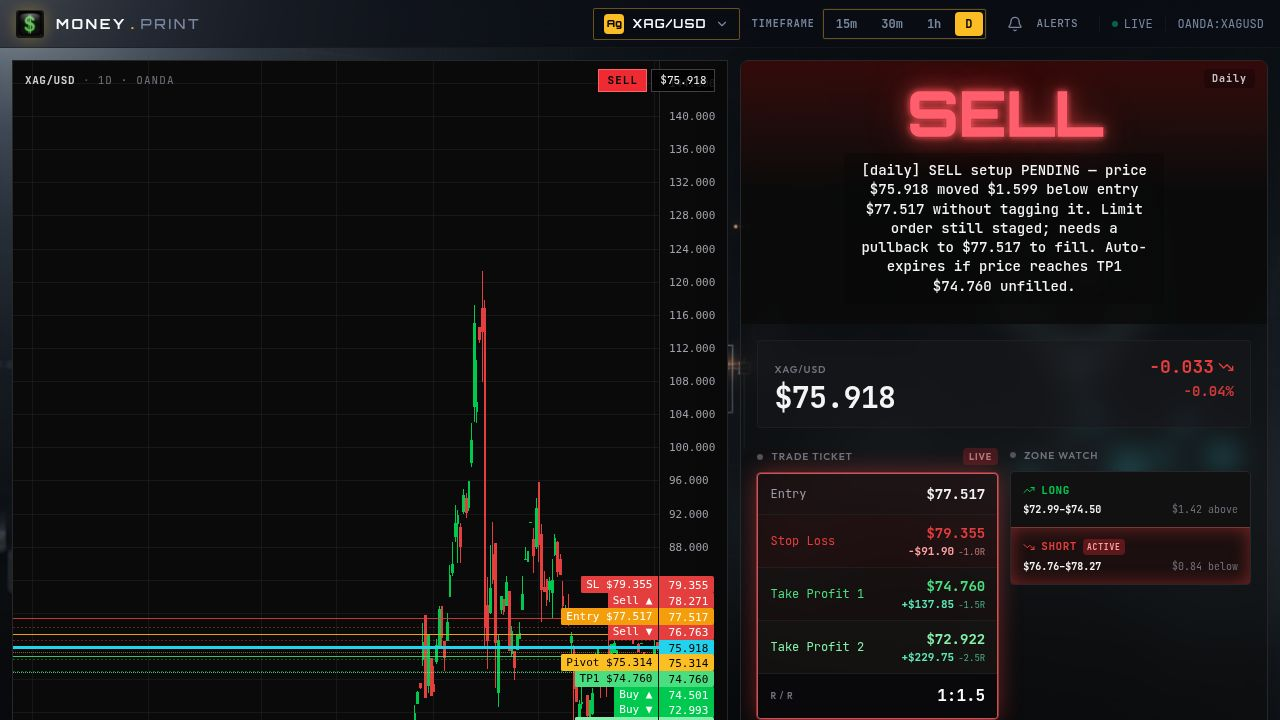
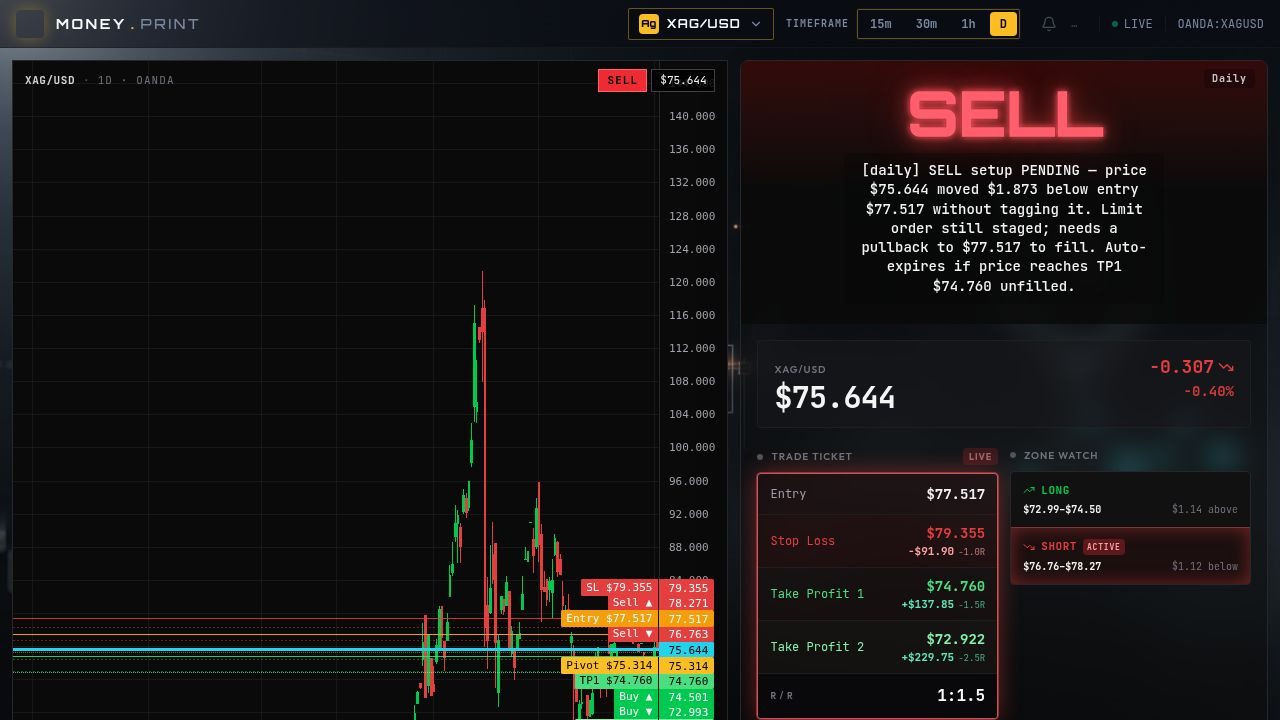
Improve chart accuracy by filtering out synthetic data points
Refine logic in artifacts/api-server/src/routes/levels.ts to correctly identify and remove synthetic, off-grid candles while preserving legitimate market-close data.

Replit-Commit-Author: Agent
Replit-Commit-Session-Id: 2d1c195f-a2e4-4244-aeab-3efe506ec239
Replit-Commit-Checkpoint-Type: full_checkpoint
Replit-Commit-Event-Id: 65a1be9f-b22a-4a94-9fc1-fca8725d3ce3
Replit-Commit-Screenshot-Url: https://storage.googleapis.com/screenshot-production-us-central1/42255058-50c7-418c-ae04-8a023d4562d7/2d1c195f-a2e4-4244-aeab-3efe506ec239/tDWAQ4R
Replit-Helium-Checkpoint-Created: true

diff --git a/artifacts/api-server/src/routes/levels.ts b/artifacts/api-server/src/routes/levels.ts
@@ -81,13 +81,26 @@ router.get("/price-history", async (req: Request, res: Response) => {
 
     const round = makeRounder(SYMBOLS[symbol].decimals);
 
-    // Drop any zero-range candle Yahoo injects for the current partial
-    // period (its O=H=L=C, it's a live-tick stub, not a real bar). We
-    // apply the live price directly to the last proper candle instead.
+    // Drop any live-tick stub Yahoo injects for the current partial period.
+    // Yahoo injects a zero-range bar (O=H=L=C) at the EXACT current clock
+    // time (e.g. 02:28:38) rather than a candle-grid boundary (e.g. 02:00:00).
+    // Genuine market-close candles can also be zero-range but always land on
+    // a proper grid boundary, so we only strip stubs whose timestamp has
+    // non-zero seconds (intraday) or whose date string contains a "T" with
+    // a non-zero seconds component.
     const rawSliced = allCandles.slice(-bars);
     const last = rawSliced[rawSliced.length - 1];
-    const isZeroRange = last && last.high === last.low && last.high === last.close;
-    const sliced = isZeroRange ? rawSliced.slice(0, -1) : rawSliced;
+    const isOffGrid = (d: string) => {
+      // Intraday ISO strings: "2026-05-04T02:28:38.000Z" — check seconds
+      const match = d.match(/T\d{2}:\d{2}:(\d{2})/);
+      return match ? parseInt(match[1], 10) !== 0 : false;
+    };
+    const isLiveTickStub =
+      last &&
+      last.high === last.low &&
+      last.high === last.close &&
+      isOffGrid(last.date);
+    const sliced = isLiveTickStub ? rawSliced.slice(0, -1) : rawSliced;
 
     if (sliced.length === 0) {
       res.status(503).json({ error: "No candle data in requested window" });
